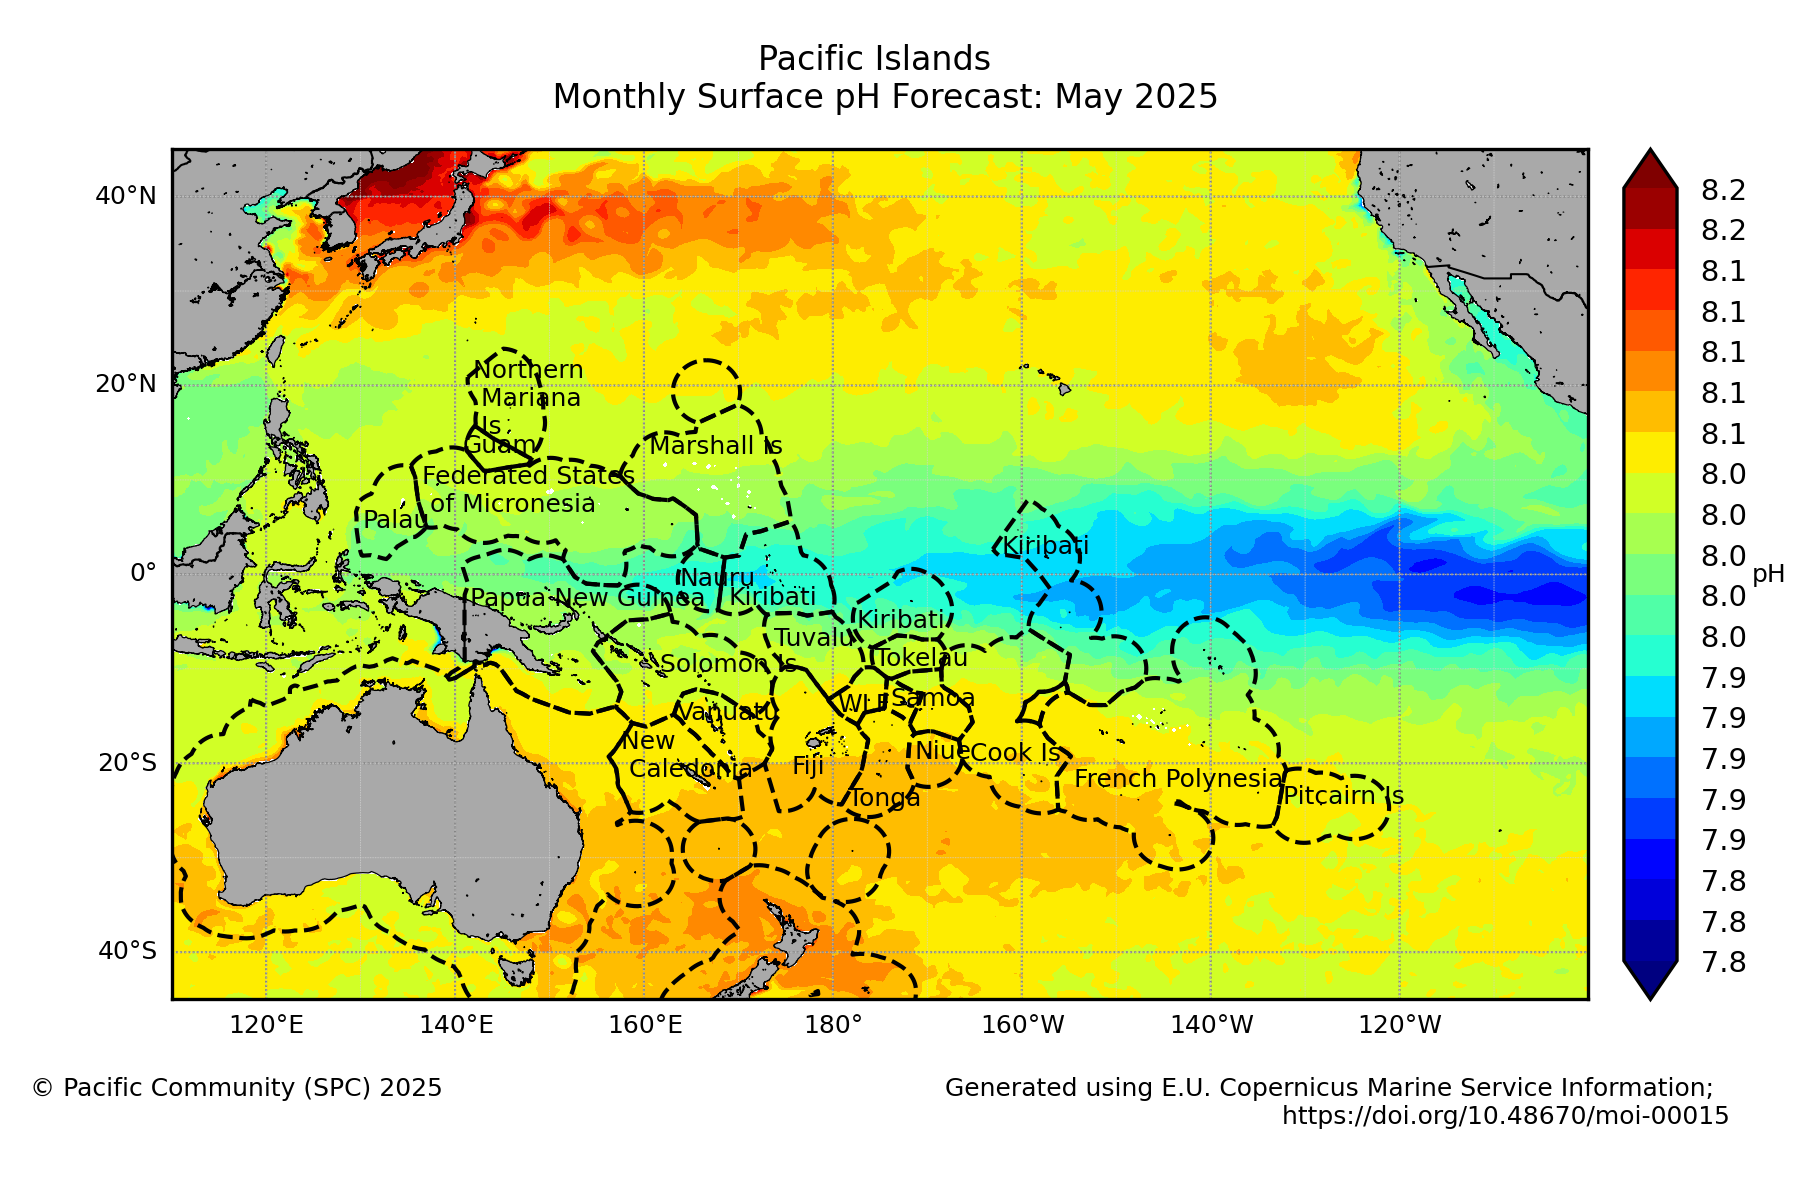
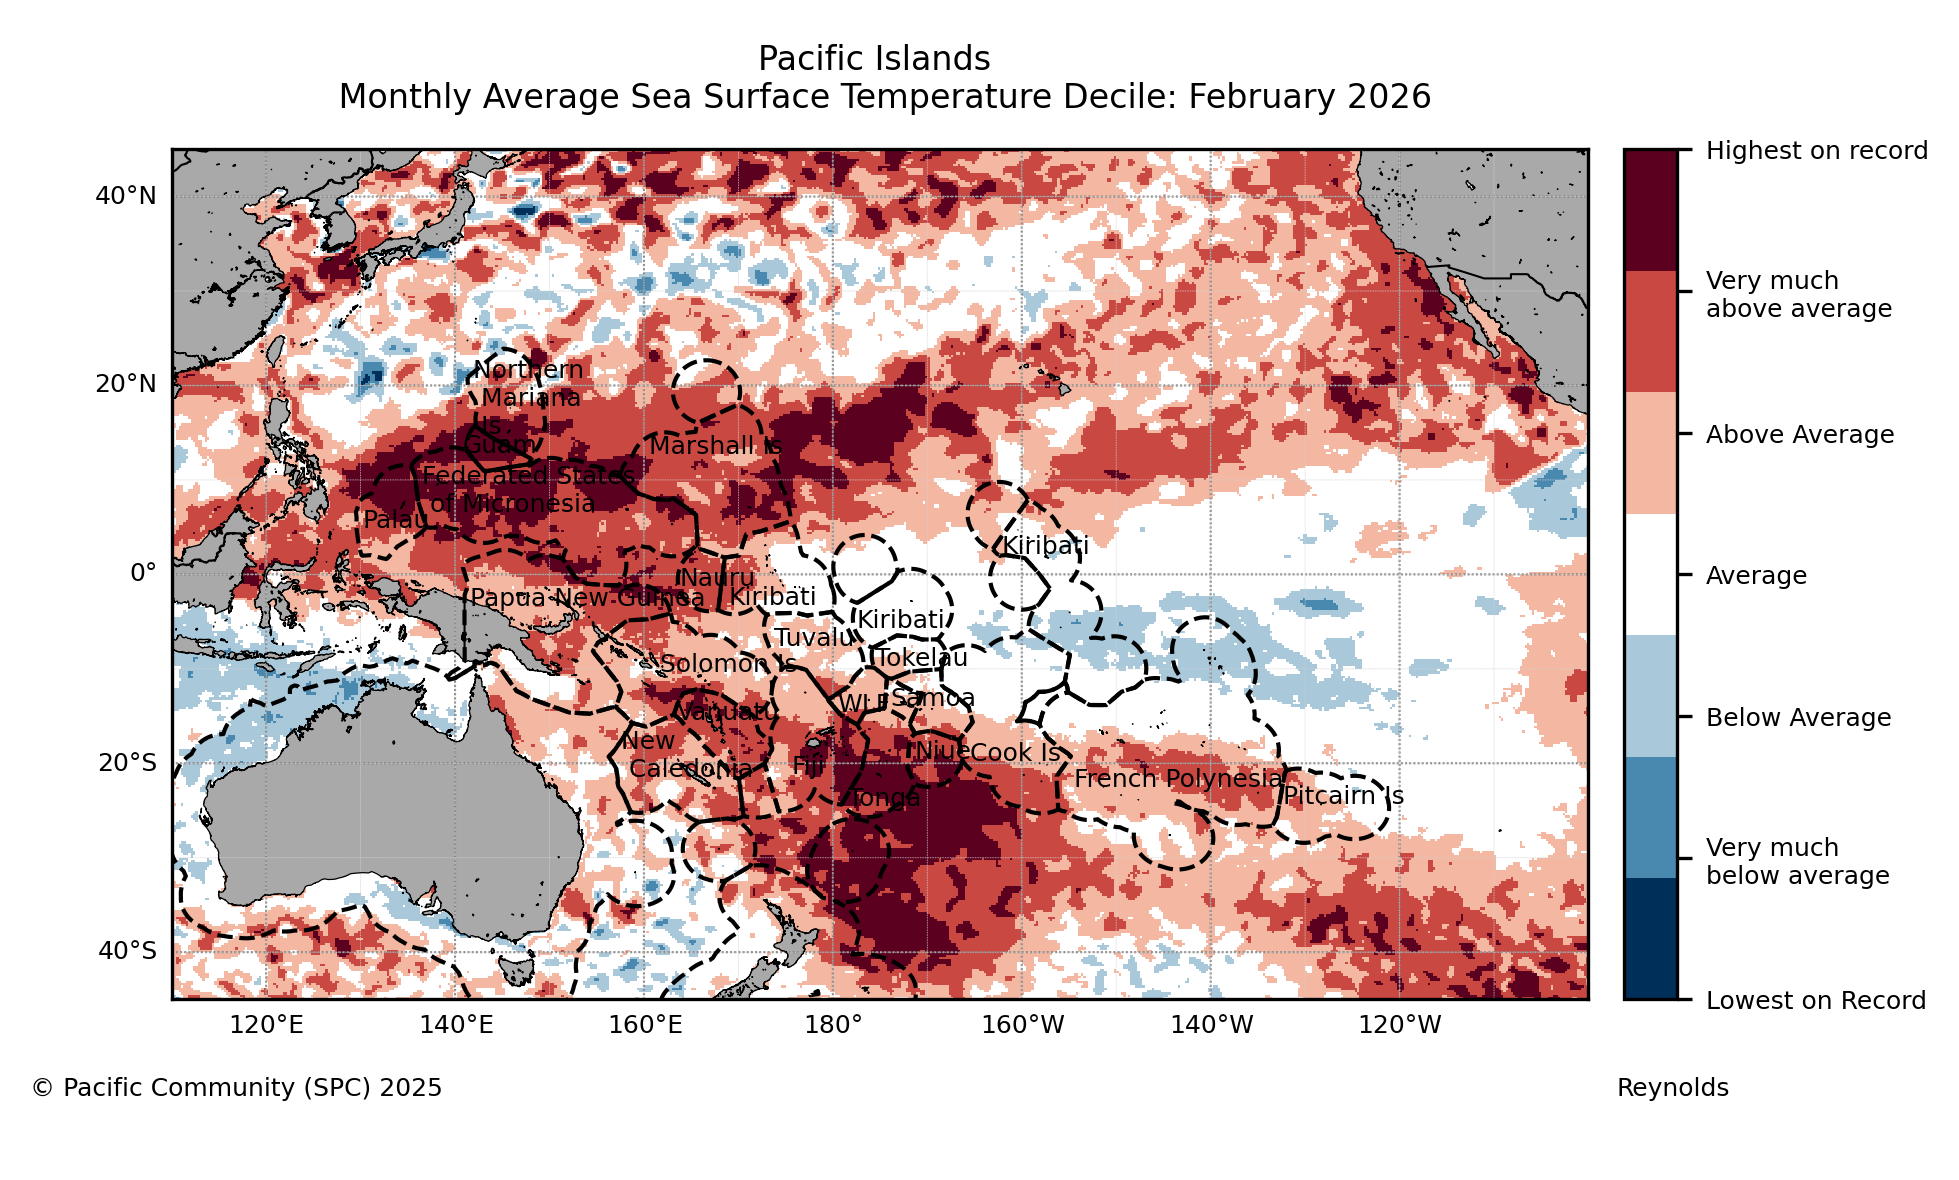
added get_title for 3,6,12 monthly decile

diff --git a/old_plotter_with_mapper.py b/old_plotter_with_mapper.py
@@ -668,13 +668,55 @@ def get_title(layer_map_data,time):
     if "{week}" not in orig_name:
         if '{' in layer_map_data.get_map_names[0] and '}' in layer_map_data.get_map_names[0]:
             if "Anomalies" in layer_map_data.get_map_names[0]:
-                cleaned = layer_map_data.get_map_names[0].replace('{', '').replace('}', '')
-                formatted_date = date.strftime(layer_map_data.get_map_names[1])
-                date_str = layer_map_data.get_map_names[1]
-                start_date = date
-                end_date = start_date + relativedelta(months=2)
-                formatted_range = f"{start_date.strftime('%b %Y')} - {end_date.strftime('%b %Y')}"
-                title_suffix = "%s : %s" % (cleaned, formatted_range)
+                if "66" in layer_map_data.get_map_names[0]:
+                    cleaned = layer_map_data.get_map_names[0].replace('{', '').replace('}', '').replace('66', '')
+                    formatted_date = date.strftime(layer_map_data.get_map_names[1])
+                    date_str = layer_map_data.get_map_names[1]
+                    start_date = date
+                    end_date = start_date + relativedelta(months=5)
+                    formatted_range = f"{start_date.strftime('%b %Y')} - {end_date.strftime('%b %Y')}"
+                    title_suffix = "%s : %s" % (cleaned, formatted_range)
+                elif "122" in layer_map_data.get_map_names[0]:
+                    cleaned = layer_map_data.get_map_names[0].replace('{', '').replace('}', '').replace('122', '')
+                    formatted_date = date.strftime(layer_map_data.get_map_names[1])
+                    date_str = layer_map_data.get_map_names[1]
+                    start_date = date
+                    end_date = start_date + relativedelta(months=11)
+                    formatted_range = f"{start_date.strftime('%b %Y')} - {end_date.strftime('%b %Y')}"
+                    title_suffix = "%s : %s" % (cleaned, formatted_range)
+                else:
+                    cleaned = layer_map_data.get_map_names[0].replace('{', '').replace('}', '')
+                    formatted_date = date.strftime(layer_map_data.get_map_names[1])
+                    date_str = layer_map_data.get_map_names[1]
+                    start_date = date
+                    end_date = start_date + relativedelta(months=2)
+                    formatted_range = f"{start_date.strftime('%b %Y')} - {end_date.strftime('%b %Y')}"
+                    title_suffix = "%s : %s" % (cleaned, formatted_range)
+            elif "Decile" in layer_map_data.get_map_names[0]:
+                if "66" in layer_map_data.get_map_names[0]:
+                    cleaned = layer_map_data.get_map_names[0].replace('{', '').replace('}', '').replace('66', '')
+                    formatted_date = date.strftime(layer_map_data.get_map_names[1])
+                    date_str = layer_map_data.get_map_names[1]
+                    start_date = date
+                    end_date = start_date + relativedelta(months=5)
+                    formatted_range = f"{start_date.strftime('%b %Y')} - {end_date.strftime('%b %Y')}"
+                    title_suffix = "%s : %s" % (cleaned, formatted_range)
+                elif "122" in layer_map_data.get_map_names[0]:
+                    cleaned = layer_map_data.get_map_names[0].replace('{', '').replace('}', '').replace('122', '')
+                    formatted_date = date.strftime(layer_map_data.get_map_names[1])
+                    date_str = layer_map_data.get_map_names[1]
+                    start_date = date
+                    end_date = start_date + relativedelta(months=11)
+                    formatted_range = f"{start_date.strftime('%b %Y')} - {end_date.strftime('%b %Y')}"
+                    title_suffix = "%s : %s" % (cleaned, formatted_range)
+                elif "33" in layer_map_data.get_map_names[0]:
+                    cleaned = layer_map_data.get_map_names[0].replace('{', '').replace('}', '').replace('33', '')
+                    formatted_date = date.strftime(layer_map_data.get_map_names[1])
+                    date_str = layer_map_data.get_map_names[1]
+                    start_date = date
+                    end_date = start_date + relativedelta(months=2)
+                    formatted_range = f"{start_date.strftime('%b %Y')} - {end_date.strftime('%b %Y')}"
+                    title_suffix = "%s : %s" % (cleaned, formatted_range)
             else:    
                 cleaned = layer_map_data.get_map_names[0].replace('{', '').replace('}', '')
                 if "Seasonal" in cleaned:
@@ -2017,7 +2059,7 @@ config = get_config_variables()
 
 #####PARAMETER#####
 region = 1
-layer_id = 32
+layer_id = 37
 #time= add_z_if_needed("2024-10-01T00:00:00Z")
 resolution = "l"
 #####PARAMETER#####
@@ -2028,6 +2070,7 @@ layer_map_data = fetch_wms_layer_data(layer_id)
 time = demo_time(layer_map_data)
 time = "2025-05-25T00:00:00Z"
 time = "2025-05-01T00:00:00Z"
+time = "2026-02-01T00:00:00Z"
 #time = "2025-08-05T00:00:00Z"
 #SLA Daily
 #time = "2025-07-16T00:00:00Z"
@@ -2045,7 +2088,7 @@ if info == 0:
 else:
     local_file_name = "%s/%s" % (info['path'], info['file_name'])
     check_local = True
-
+check_local = False
 print(check_local)
 print(local_file_name)
 #sys.exit()

diff --git a/app/plotter.py b/app/plotter.py
@@ -504,7 +504,7 @@ class Plotter:
     def get_title(layer_map_data,time):
         new_name = []
         week = False
-        date = datetime.strptime(Plotter.add_z_if_needed(time), "%Y-%m-%dT%H:%M:%SZ")
+        date = datetime.strptime(add_z_if_needed(time), "%Y-%m-%dT%H:%M:%SZ")
         date2 = date.strftime("%Y-%m-%dT%H%M%SZ")
         formatted_date = date.strftime("%-d %B %Y")
         orig_name = layer_map_data.get_map_names
@@ -564,6 +564,31 @@ class Plotter:
                         title_suffix = "%s : %s" % (cleaned, formatted_range)
                     else:
                         cleaned = layer_map_data.get_map_names[0].replace('{', '').replace('}', '')
+                        formatted_date = date.strftime(layer_map_data.get_map_names[1])
+                        date_str = layer_map_data.get_map_names[1]
+                        start_date = date
+                        end_date = start_date + relativedelta(months=2)
+                        formatted_range = f"{start_date.strftime('%b %Y')} - {end_date.strftime('%b %Y')}"
+                        title_suffix = "%s : %s" % (cleaned, formatted_range)
+                elif "Decile" in layer_map_data.get_map_names[0]:
+                    if "66" in layer_map_data.get_map_names[0]:
+                        cleaned = layer_map_data.get_map_names[0].replace('{', '').replace('}', '').replace('66', '')
+                        formatted_date = date.strftime(layer_map_data.get_map_names[1])
+                        date_str = layer_map_data.get_map_names[1]
+                        start_date = date
+                        end_date = start_date + relativedelta(months=5)
+                        formatted_range = f"{start_date.strftime('%b %Y')} - {end_date.strftime('%b %Y')}"
+                        title_suffix = "%s : %s" % (cleaned, formatted_range)
+                    elif "122" in layer_map_data.get_map_names[0]:
+                        cleaned = layer_map_data.get_map_names[0].replace('{', '').replace('}', '').replace('122', '')
+                        formatted_date = date.strftime(layer_map_data.get_map_names[1])
+                        date_str = layer_map_data.get_map_names[1]
+                        start_date = date
+                        end_date = start_date + relativedelta(months=11)
+                        formatted_range = f"{start_date.strftime('%b %Y')} - {end_date.strftime('%b %Y')}"
+                        title_suffix = "%s : %s" % (cleaned, formatted_range)
+                    elif "33" in layer_map_data.get_map_names[0]:
+                        cleaned = layer_map_data.get_map_names[0].replace('{', '').replace('}', '').replace('33', '')
                         formatted_date = date.strftime(layer_map_data.get_map_names[1])
                         date_str = layer_map_data.get_map_names[1]
                         start_date = date
